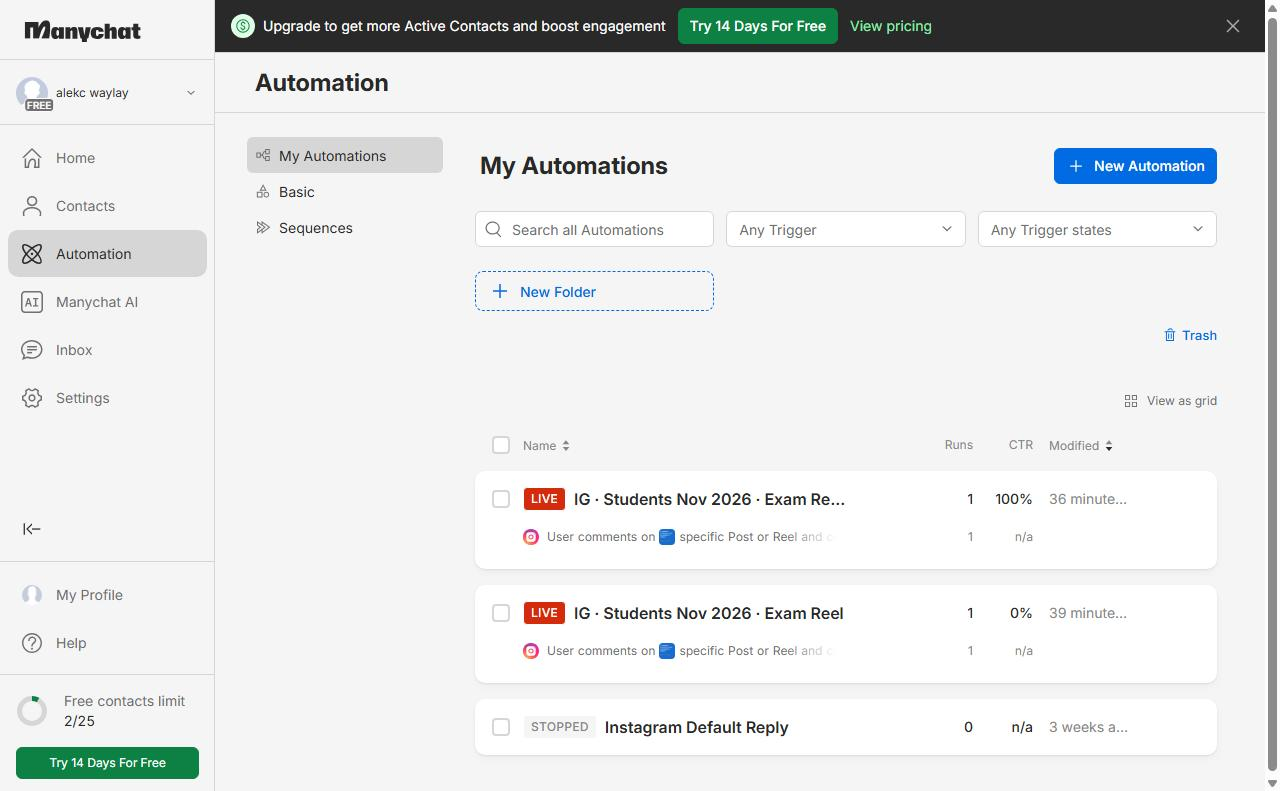
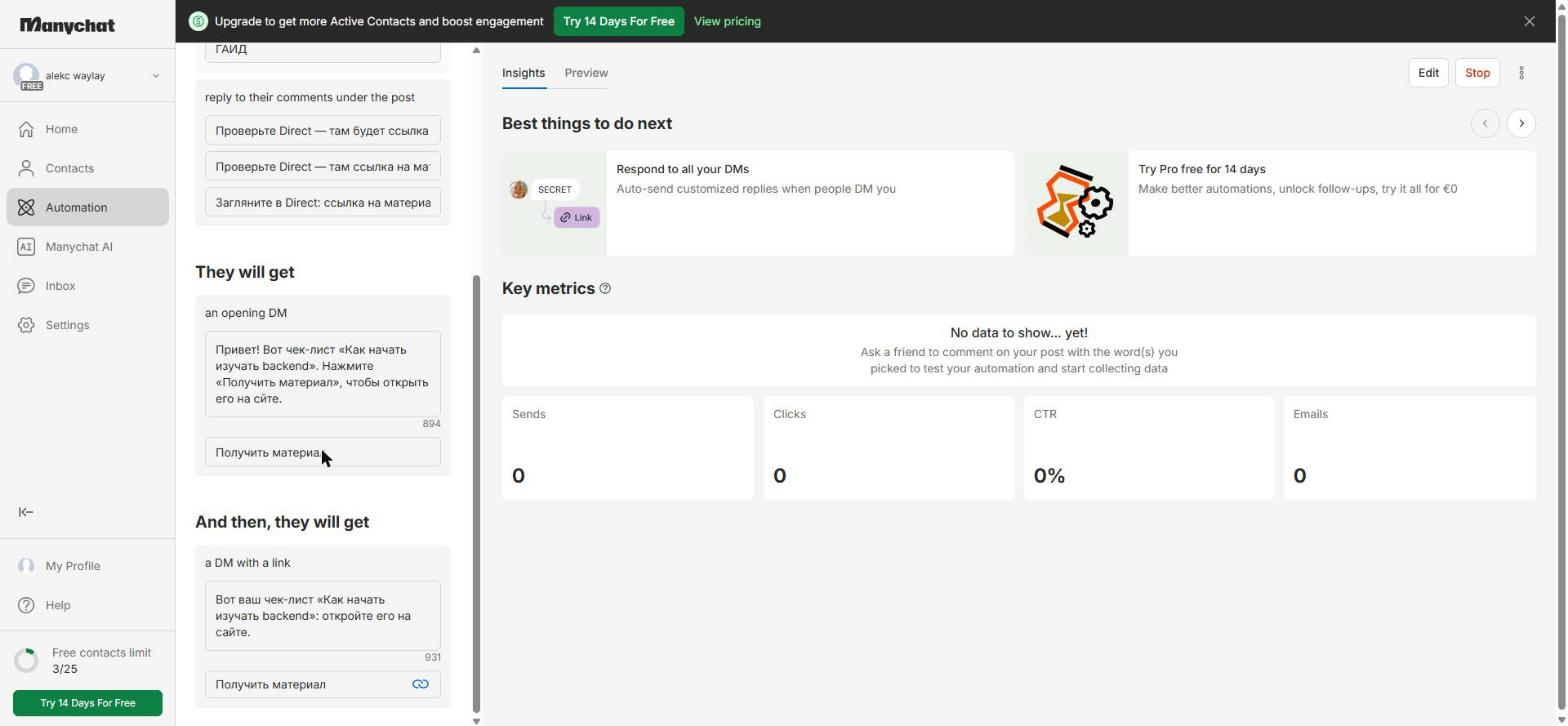
hw-07: automation ГАЙД собрана и включена, кадры 01–03

diff --git a/lesson_07/homework_07.md b/lesson_07/homework_07.md
@@ -14,10 +14,11 @@
 
 ## 1. Подключение и automation
 
-Учебный аккаунт Instagram подключён к ManyChat на тарифе Free. В ManyChat
-работают две automation с триггером «комментарий под выбранной публикацией»
-в статусе Live (на кадре). Они собраны для другой воронки (ключевые слова
-«ТЕСТ» и «АВТОМАТ»), а не для `ГАЙД`, см. раздел «Не получилось».
+Учебный аккаунт Instagram подключён к ManyChat на тарифе Free. Я собрал
+automation `IG · Backend Guide · Reel 01`: триггер на комментарий под
+выбранным рилсом, ключевое слово `ГАЙД`, публичный ответ, личное сообщение
+с кнопкой «Получить материал» и второе сообщение с кнопкой-ссылкой
+на `guide.html` с метками. Automation включена (Live).
 
 | Мои данные | Значение |
 |---|---|
@@ -26,11 +27,11 @@
 | Публичный адрес сайта | https://tz-03-avtoshkola-pravyy-ryad-git-main-asd-56a7.vercel.app |
 | Measurement ID (`G-…`) | G-2JQK10WEM7 |
 
-Кадра 01 нет.
+![Instagram подключён к ManyChat](screens/01-connected.png)
 
-![Automation в ManyChat, статус Live (список, не Flow Builder)](screens/02-flow.png)
+![Настройки automation: ответы, сообщения и кнопка со ссылкой](screens/02-flow.png)
 
-Кадра 03 нет.
+![Триггер: Specific Post и ГАЙД](screens/03-trigger.png)
 
 ## 2. Тест цепочки
 
@@ -53,6 +54,6 @@
 
 ---
 
-Не получилось: automation под `ГАЙД` с кнопкой «Получить материал» и ссылкой на `guide.html` не собрана, поэтому нет кадров 01, 03, 05, 06, 07, 08, а кадры 02 и 04 взяты из ранее собранной воронки с ключевыми словами «ТЕСТ» и «АВТОМАТ». Файлы `guide.html` и `js/guide.js` добавлены в сайт, кнопка со страницы ведёт на `lesson07.html` (там рабочая форма из задания 5), а не на `contacts.html`.
+Не получилось: тест цепочки с `ГАЙД` (комментарий, сообщение в Direct, переход на `guide.html`, заявка) пока не проведён, поэтому нет кадров 05, 06, 07, 08. Кадр 04 снят с ранее собранной воронки («ТЕСТ»). Конструктор ManyChat на тарифе Free делает два сообщения (открывающее с кнопкой и второе со ссылкой) вместо одного, а подпись под рилсом осталась старой, в ней нет призыва «ГАЙД». Файлы `guide.html` и `js/guide.js` добавлены в сайт, кнопка со страницы ведёт на `lesson07.html` (там рабочая форма из задания 5), а не на `contacts.html`.
 
-ИИ: использовал Claude для добавления `guide.html` и оформления бланка.
+ИИ: использовал Claude для добавления `guide.html`, сборки automation в ManyChat и оформления бланка.
